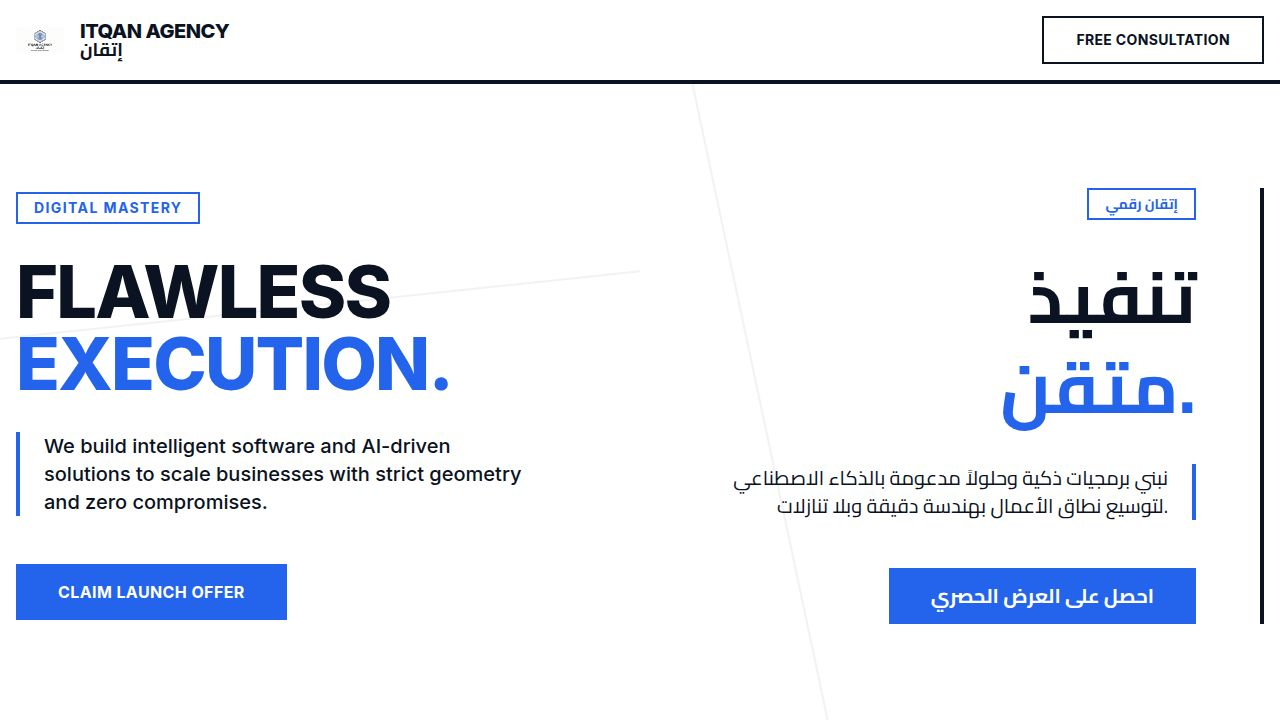
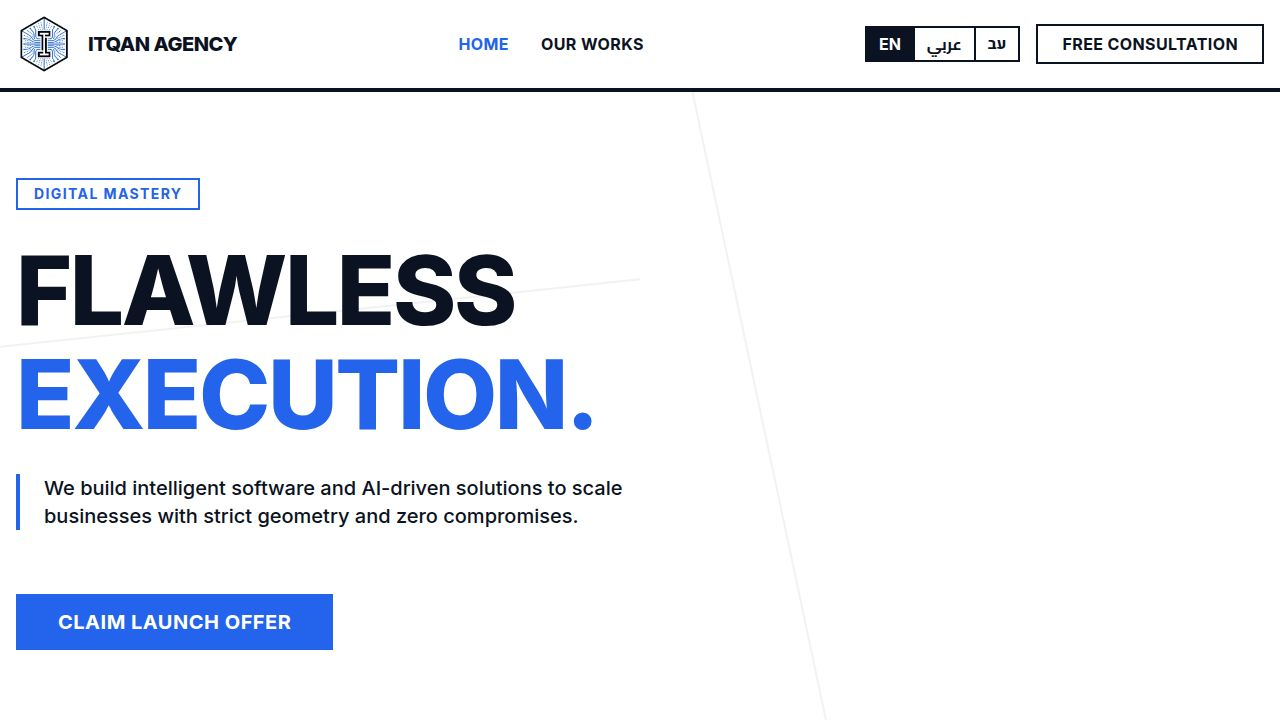
Update website navigation and remove admin link from public view
Refactors the Navbar component to introduce a mobile menu, hide the admin link from public view, and update styling for desktop and mobile views.

Replit-Commit-Author: Agent
Replit-Commit-Session-Id: 2509ecfb-1fd7-4711-a5cc-1e2d10c74231
Replit-Commit-Checkpoint-Type: full_checkpoint
Replit-Commit-Event-Id: 5bd39619-91da-4f45-8ed2-3a9529c8db19
Replit-Commit-Screenshot-Url: https://storage.googleapis.com/screenshot-production-us-central1/3e5e522b-4b70-4f5d-b6ae-fc7f810f94fa/2509ecfb-1fd7-4711-a5cc-1e2d10c74231/saXJqjH
Replit-Helium-Checkpoint-Created: true

diff --git a/client/src/components/layout/Navbar.tsx b/client/src/components/layout/Navbar.tsx
@@ -1,26 +1,33 @@
 import { Button } from "@/components/ui/button";
 import MainLogo from "@assets/OnlyLogo-Photoroom_1773170349439.png";
 import { useLanguage } from "@/contexts/LanguageContext";
-import { Link } from "wouter";
+import { Link, useLocation } from "wouter";
+import { useState } from "react";
+import { Menu, X } from "lucide-react";
 
 export function Navbar() {
   const { language, setLanguage } = useLanguage();
+  const [isMobileMenuOpen, setIsMobileMenuOpen] = useState(false);
+  const [location] = useLocation();
 
   const navLinks = {
-    en: { home: "Home", works: "Our Works", admin: "Admin", cta: "Free Consultation" },
-    ar: { home: "الرئيسية", works: "أعمالنا", admin: "الإدارة", cta: "استشارة مجانية" },
-    he: { home: "בית", works: "עבודות", admin: "ניהול", cta: "ייעוץ חינם" }
+    en: { home: "Home", works: "Our Works", cta: "Free Consultation" },
+    ar: { home: "الرئيسية", works: "أعمالنا", cta: "استشارة مجانية" },
+    he: { home: "בית", works: "עבודות", cta: "ייעוץ חינם" }
   };
 
   const t = navLinks[language];
 
+  const toggleMobileMenu = () => setIsMobileMenuOpen(!isMobileMenuOpen);
+  const closeMobileMenu = () => setIsMobileMenuOpen(false);
+
   return (
-    <nav className="border-b-4 border-foreground bg-background py-4 sticky top-0 z-50">
-      <div className="container px-4 mx-auto flex items-center justify-between">
+    <nav className="border-b-4 border-foreground bg-background sticky top-0 z-50">
+      <div className="container px-4 mx-auto flex items-center justify-between py-4">
         
         {/* Logo Area */}
         <Link href="/">
-          <a className="flex items-center gap-4 cursor-pointer group">
+          <a className="flex items-center gap-4 cursor-pointer group" onClick={closeMobileMenu}>
             <div className="w-12 h-12 md:w-14 md:h-14 flex items-center justify-center transition-transform group-hover:scale-105 duration-300">
               <img src={MainLogo} alt="Itqan Agency Logo" className="w-full h-full object-contain" />
             </div>
@@ -30,15 +37,14 @@ export function Navbar() {
           </a>
         </Link>
 
-        {/* Links */}
+        {/* Desktop Links */}
         <div className="hidden md:flex items-center gap-8 font-bold uppercase tracking-wide">
-          <Link href="/"><a className="hover:text-primary transition-colors">{t.home}</a></Link>
-          <Link href="/portfolio"><a className="hover:text-primary transition-colors">{t.works}</a></Link>
-          <Link href="/admin"><a className="hover:text-primary transition-colors text-muted-foreground">{t.admin}</a></Link>
+          <Link href="/" className={`hover:text-primary transition-colors ${location === '/' ? 'text-primary' : ''}`}>{t.home}</Link>
+          <Link href="/portfolio" className={`hover:text-primary transition-colors ${location === '/portfolio' ? 'text-primary' : ''}`}>{t.works}</Link>
         </div>
 
-        {/* Actions */}
-        <div className="flex items-center gap-4">
+        {/* Desktop Actions */}
+        <div className="hidden md:flex items-center gap-4">
           <div className="flex border-2 border-foreground font-bold" dir="ltr">
             <button 
               onClick={() => setLanguage('en')}
@@ -60,11 +66,64 @@ export function Navbar() {
             </button>
           </div>
 
-          <Button variant="primary" className="hidden sm:inline-flex text-lg">
+          <Button variant="primary" className="hidden lg:inline-flex text-base h-10 px-6">
             {t.cta}
           </Button>
         </div>
+
+        {/* Mobile Menu Toggle & Language Switcher */}
+        <div className="flex md:hidden items-center gap-3">
+          {/* Mobile Language Switcher (Compact) */}
+          <div className="flex border-2 border-foreground font-bold text-sm" dir="ltr">
+            <button 
+              onClick={() => setLanguage('en')}
+              className={`px-2 py-1 transition-colors ${language === 'en' ? 'bg-foreground text-background' : 'hover:bg-muted'}`}
+            >
+              EN
+            </button>
+            <button 
+              onClick={() => setLanguage('ar')}
+              className={`px-2 py-1 border-x-2 border-foreground transition-colors font-ar ${language === 'ar' ? 'bg-foreground text-background' : 'hover:bg-muted'}`}
+            >
+              عربي
+            </button>
+            <button 
+              onClick={() => setLanguage('he')}
+              className={`px-2 py-1 transition-colors font-he ${language === 'he' ? 'bg-foreground text-background' : 'hover:bg-muted'}`}
+            >
+              עב
+            </button>
+          </div>
+
+          <button 
+            className="p-2 border-2 border-foreground bg-background hover:bg-foreground hover:text-background transition-colors"
+            onClick={toggleMobileMenu}
+          >
+            {isMobileMenuOpen ? <X className="w-5 h-5" /> : <Menu className="w-5 h-5" />}
+          </button>
+        </div>
       </div>
+
+      {/* Mobile Menu Dropdown */}
+      {isMobileMenuOpen && (
+        <div className="md:hidden border-t-4 border-foreground bg-background absolute top-full left-0 w-full flex flex-col font-bold uppercase tracking-wide">
+          <Link href="/">
+            <span className={`p-4 border-b-2 border-foreground/10 hover:bg-muted block cursor-pointer ${location === '/' ? 'text-primary' : ''}`} onClick={closeMobileMenu}>
+              {t.home}
+            </span>
+          </Link>
+          <Link href="/portfolio">
+            <span className={`p-4 border-b-2 border-foreground/10 hover:bg-muted block cursor-pointer ${location === '/portfolio' ? 'text-primary' : ''}`} onClick={closeMobileMenu}>
+              {t.works}
+            </span>
+          </Link>
+          <div className="p-4">
+            <Button variant="primary" className="w-full text-base h-12" onClick={closeMobileMenu}>
+              {t.cta}
+            </Button>
+          </div>
+        </div>
+      )}
     </nav>
   );
 }
